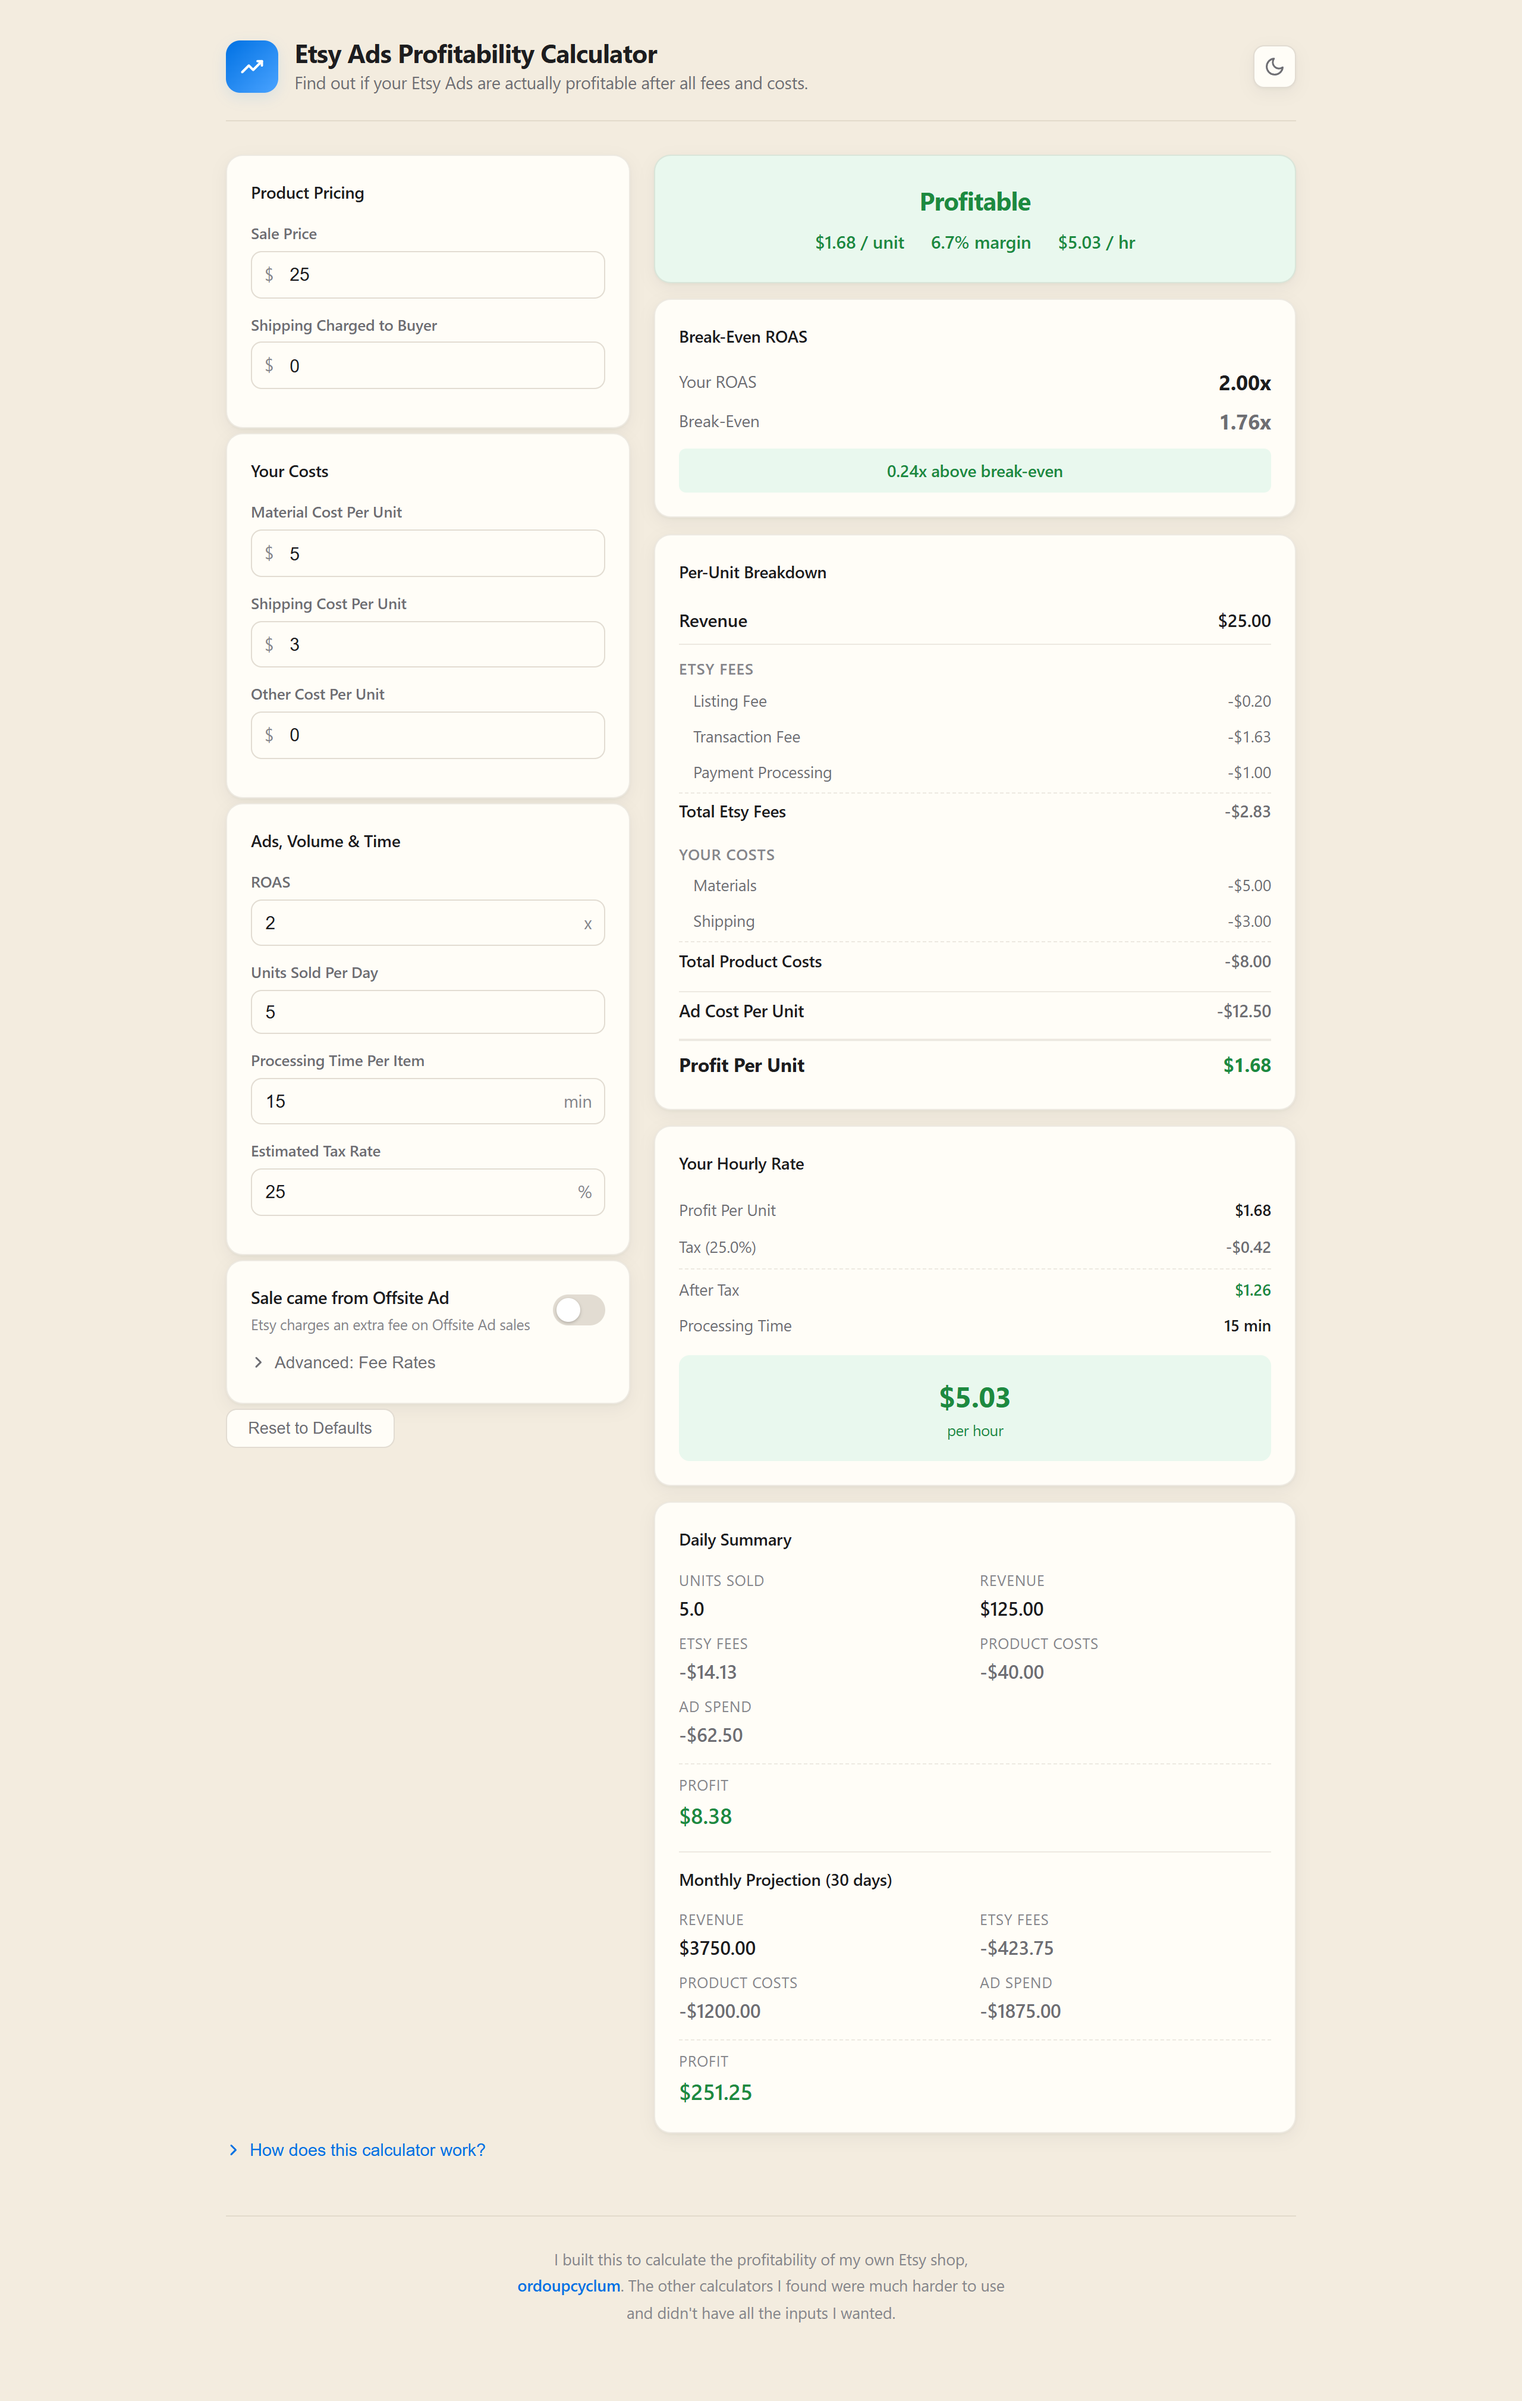
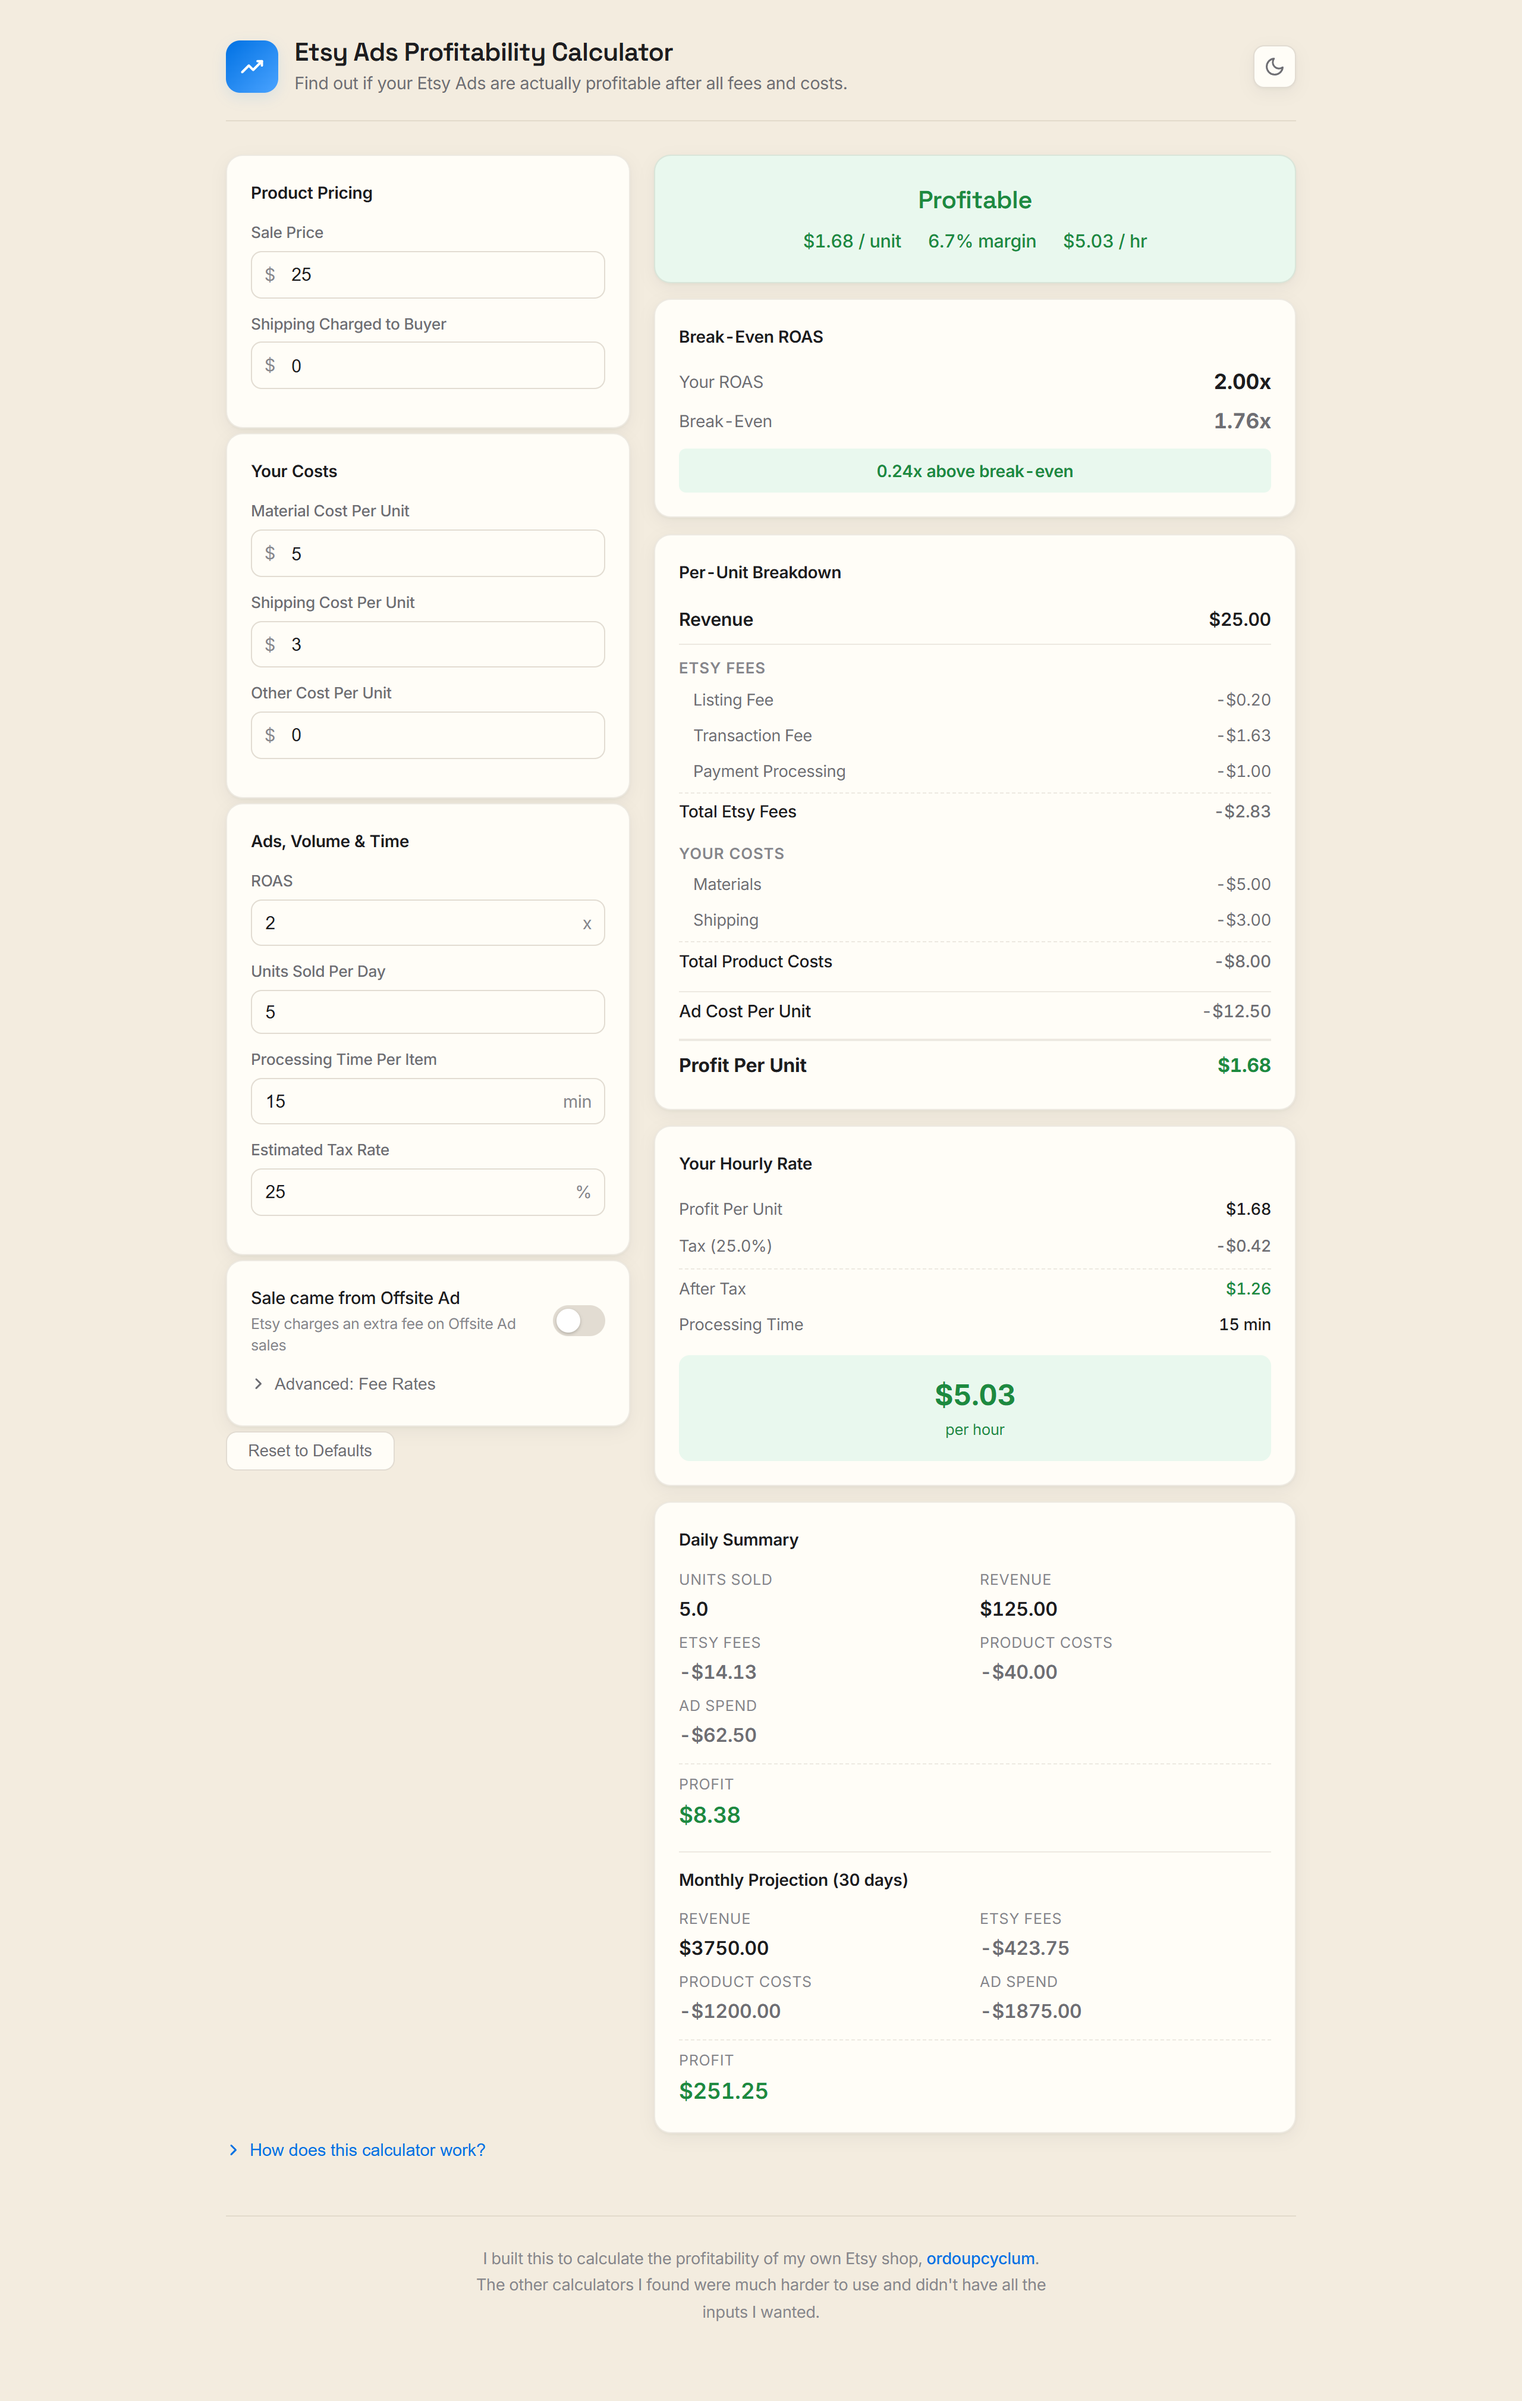
Add a self-hosted font pairing: Inter + Space Grotesk
Use Inter (variable) for the UI and numbers (with tabular figures) and
Space Grotesk (variable) for the title and verdict label — a cooler, more
designed look. Both are bundled via @fontsource, so there are no Google
Fonts / CDN requests; the app stays privacy-friendly and offline-capable.

- main.ts: import the variable fonts before the stylesheet
- main.css: --font-sans / --font-display tokens; body uses Inter +
  tabular-nums; .app-title uses Space Grotesk
- env.d.ts: declare the @fontsource-variable/* CSS-only modules for vue-tsc
- README: note the self-hosted fonts in the tech stack
- Regenerate the README screenshots

diff --git a/src/assets/main.css b/src/assets/main.css
@@ -4,6 +4,12 @@
    palette; useTheme.ts sets that attribute on <html>.
    ============================================================ */
 :root {
+  /* Typography */
+  --font-sans:
+    'Inter Variable', -apple-system, BlinkMacSystemFont, 'Segoe UI', Roboto, 'Helvetica Neue',
+    Arial, sans-serif;
+  --font-display: 'Space Grotesk Variable', var(--font-sans);
+
   /* Surfaces (warm cream) */
   --bg-page: #f3ecdf;
   --bg-card: #fffdf7;
@@ -86,13 +92,12 @@
 }
 
 body {
-  font-family:
-    -apple-system, BlinkMacSystemFont, 'SF Pro Text', 'Segoe UI', Roboto, 'Helvetica Neue', Arial,
-    sans-serif;
+  font-family: var(--font-sans);
   background: var(--bg-page);
   color: var(--text-primary);
   line-height: 1.5;
   letter-spacing: -0.01em;
+  font-variant-numeric: tabular-nums;
   -webkit-font-smoothing: antialiased;
   -moz-osx-font-smoothing: grayscale;
   transition:
@@ -138,9 +143,10 @@ body {
 }
 
 .app-title {
+  font-family: var(--font-display);
   font-size: 1.35rem;
-  font-weight: 700;
-  letter-spacing: -0.022em;
+  font-weight: 600;
+  letter-spacing: -0.02em;
   color: var(--text-primary);
   line-height: 1.15;
 }

diff --git a/src/main.ts b/src/main.ts
@@ -1,5 +1,11 @@
 import { createApp } from 'vue'
 import App from './App.vue'
+
+// Self-hosted variable fonts (no external/CDN requests — keeps the app
+// privacy-friendly and offline-capable). Inter for UI, Space Grotesk for display.
+import '@fontsource-variable/inter'
+import '@fontsource-variable/space-grotesk'
+
 import './assets/main.css'
 
 createApp(App).mount('#app')

diff --git a/env.d.ts b/env.d.ts
@@ -2,3 +2,6 @@
 
 // `.vue` single-file components are understood natively by vue-tsc / Volar,
 // so no `declare module '*.vue'` shim is needed here.
+
+// @fontsource packages are CSS-only side-effect imports with no JS exports.
+declare module '@fontsource-variable/*'

diff --git a/src/components/VerdictBanner.vue b/src/components/VerdictBanner.vue
@@ -59,8 +59,9 @@ const label = computed(() => LABELS[props.verdict])
 }
 
 .verdict-label {
+  font-family: var(--font-display);
   font-size: 1.3rem;
-  font-weight: 700;
+  font-weight: 600;
   letter-spacing: -0.015em;
 }
 

diff --git a/README.md b/README.md
@@ -110,7 +110,9 @@ effectiveHourlyRate  = afterTaxProfit ÷ processingMinutes × 60
   and component tests
 - **[ESLint](https://eslint.org/)** (flat config) + **[Prettier](https://prettier.io/)**
 - **GitHub Actions** CI and **Netlify** for hosting
-- **Zero runtime dependencies** beyond Vue — state is plain reactive refs persisted to
+- **Self-hosted fonts** — Inter + Space Grotesk (variable) via `@fontsource`, bundled at build time
+  so there are no Google Fonts / CDN requests
+- **Lean runtime** — just Vue and the bundled fonts; state is plain reactive refs persisted to
   `localStorage`
 
 ## Getting started
